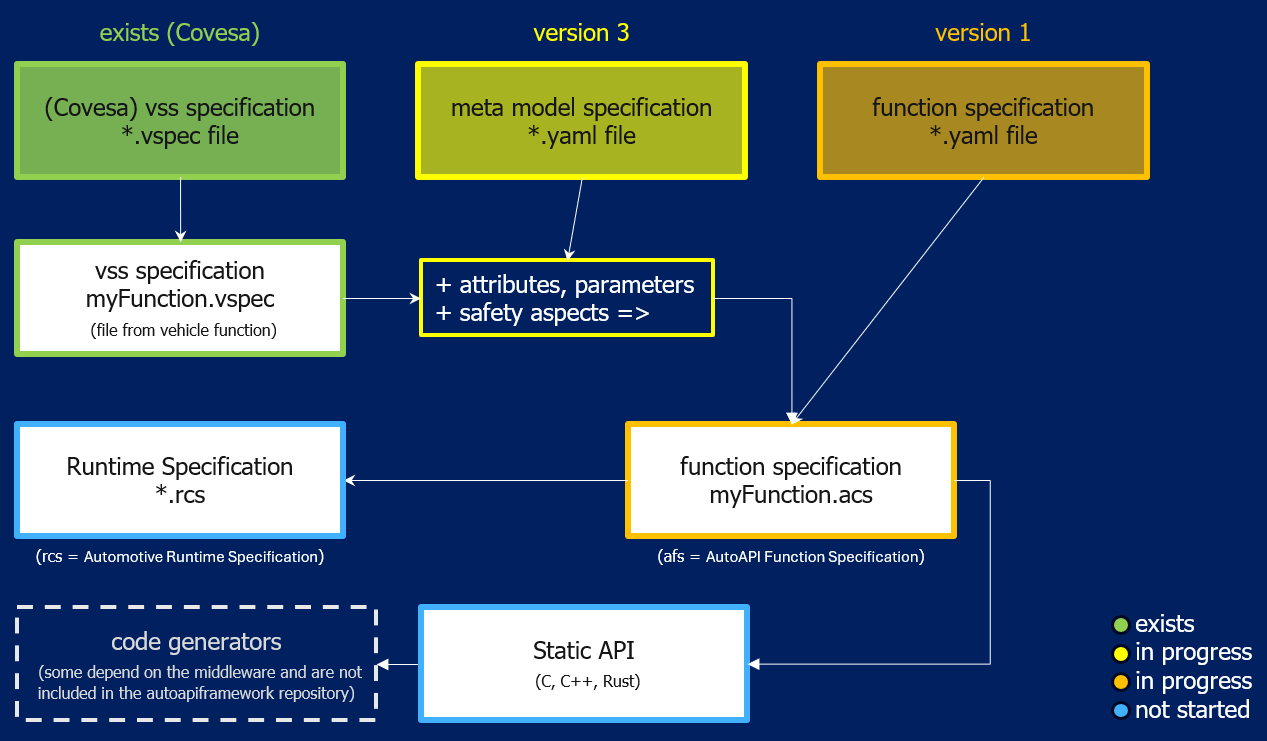
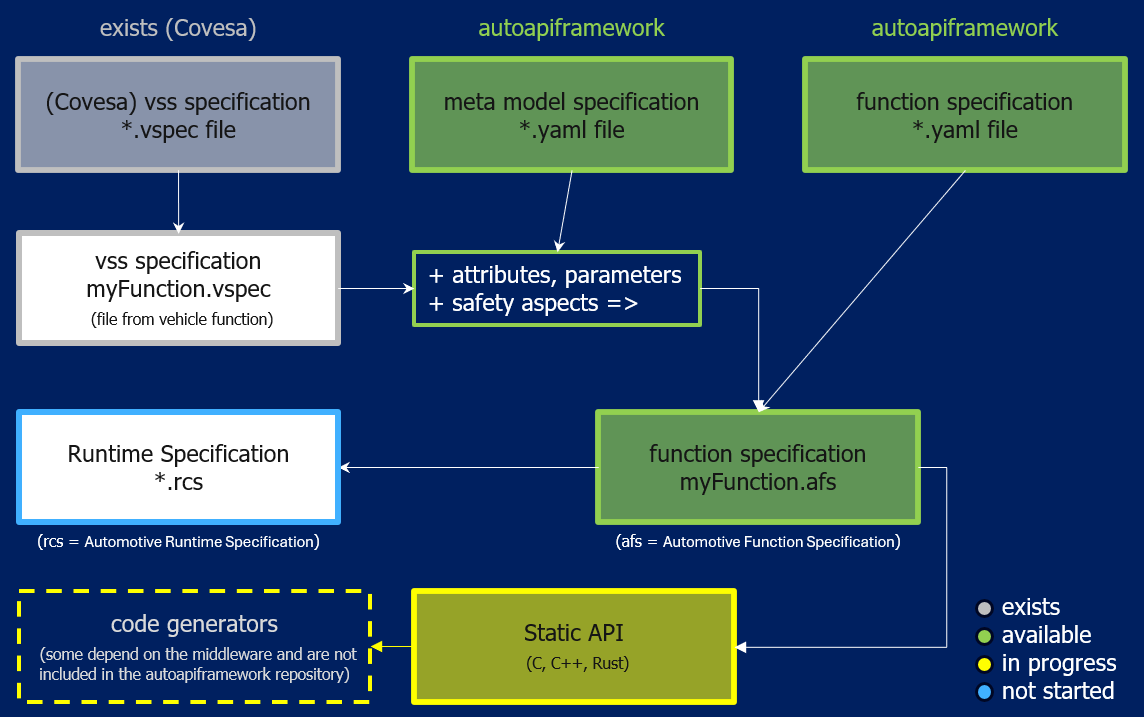
update project status graphic (#21)

diff --git a/docs/doc/meta_model/meta_model_purpose.rst b/docs/doc/meta_model/meta_model_purpose.rst
@@ -122,7 +122,10 @@ What New Members Should Keep in Mind
 Status Of The Current Project
 -----------------------------
 
-Currently we have a Meta Model in place with additional parameters and attributes compared to existing vss definition of COVESA. There are discussions and feedback rounds about additional useful safety aspects to finalize the meta model.
+Currently, we have a Meta Model and a Function Specification template in place, including error handling. 
+Together, they cover the function description and support ASIL D requirements. 
+The next step is to generate API code based on the function specification file.
+
 
 .. figure:: figures/specification_sequence.png
    :alt: status of the current project
